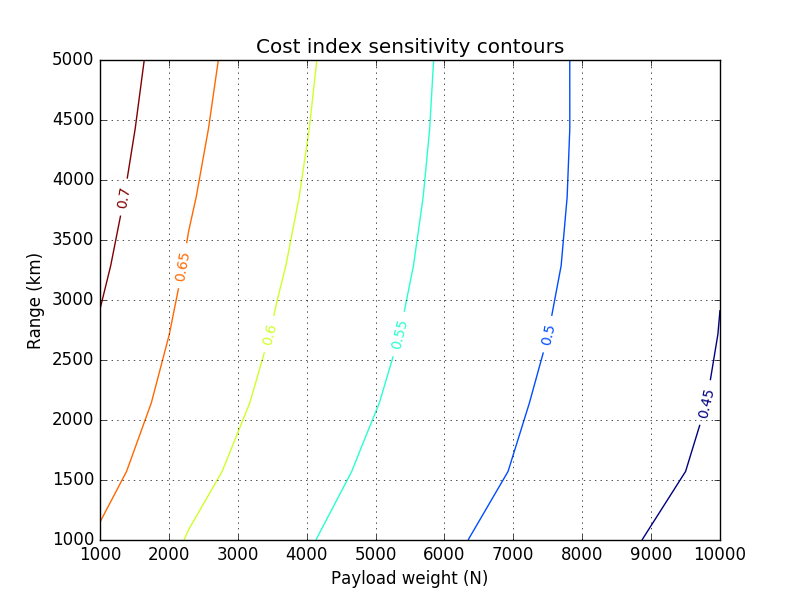
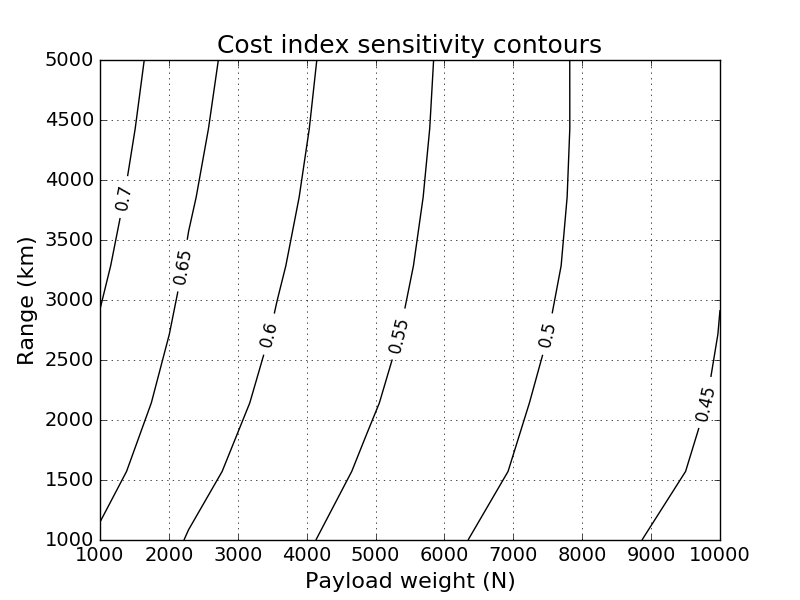
BSFC figure updates and B/W format.

diff --git a/enginefit/fitBSFC.py b/enginefit/fitBSFC.py
@@ -24,6 +24,19 @@ Type = 'SMA'
 #cstrt, rms_error = fit(log(L[0:-1]),log(BSFC[0:-1]/BSFCmin),K,Type)
 cstrt, rms_error = fit(log(P[0:-1]/Pmax),log(BSFC[0:-1]/BSFCmin),K,Type)
 
+# Enlarging fonts
+SMALL_SIZE = 14
+MEDIUM_SIZE = 18
+BIGGER_SIZE = 18
+
+plt.rc('font', size=SMALL_SIZE)          # controls default text sizes
+plt.rc('axes', titlesize=BIGGER_SIZE)     # fontsize of the axes title
+plt.rc('axes', labelsize=MEDIUM_SIZE)    # fontsize of the x and y labels
+plt.rc('xtick', labelsize=SMALL_SIZE)    # fontsize of the tick labels
+plt.rc('ytick', labelsize=SMALL_SIZE)    # fontsize of the tick labels
+plt.rc('legend', fontsize=SMALL_SIZE)    # legend fontsize
+plt.rc('figure', titlesize=MEDIUM_SIZE)  # fontsize of the figure title
+
 # Plotting
 Lnew = np.linspace(0.1,1,100)
 #newPoints = (6.57*(Lnew)**6.60 + 1.14 * (Lnew) ** 0.106)**(1/2.29)
@@ -35,9 +48,9 @@ for i in range(0,100):
     if newPoints2[i] <= 1.:
         newPoints2[i] = 1.
 #plt.plot(L,BSFC/BSFCmin,label='data')
-plt.plot(P/Pmax,BSFC/BSFCmin,label='data',marker='o')
-plt.plot(Lnew,newPoints,label='fit')
-plt.plot(Lnew,newPoints2,label='fit+bound')
+plt.plot(P/Pmax,BSFC/BSFCmin,'k',label='data',marker='o')
+plt.plot(Lnew,newPoints,'k--',label='fit')
+plt.plot(Lnew,newPoints2,'k',label='fit+bound')
 plt.xlabel('$P_{shaft}/P_{shaft,alt}$')
 plt.ylabel('$BSFC/BSFC_{min}$')
 plt.legend(loc=1)
